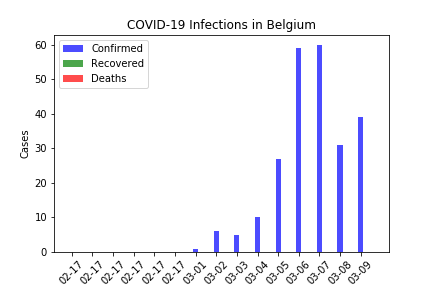
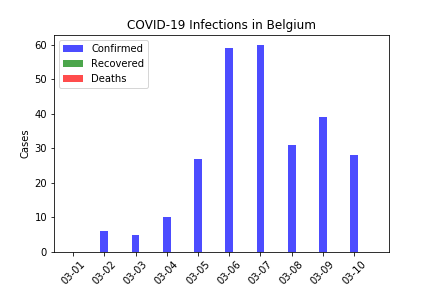
Update 2020-03-11 12:47:01

diff --git a/covid19.py b/covid19.py
@@ -12,11 +12,13 @@ import matplotlib.pyplot as plt
 import numpy as np
 from countryinfo import CountryInfo
 import os
+import re
 
 
 def make_graph(country, start_date, show_score = False):
     header = ['Province/State','Country/Region','Last Update','Confirmed','Deaths','Recovered','Latitude','Longitude']
-    countries_split_in_provinces =  ['US', 'China', 'Canada', 'Australia']
+    countries_split_in_provinces =  ['US', 'Mainland China', 'Canada', 'Australia']
+    provincies = ['Hubei','Guangdong','Henan','Zhejiang','Hunan','Anhui','Jiangxi','Shandong','Chongqing','Sichuan','Heilongjiang','Beijing','Shanghai','Hebei','Yunnan','Shaanxi','Fujian','Guangxi','Jiangsu','Guizhou','Hainan','California','New York','Washington','Indiana']
     raw_link = 'https://raw.githubusercontent.com/CSSEGISandData/COVID-19/master/csse_covid_19_data/csse_covid_19_daily_reports/{}.csv'
     end_date = date.today()
     delta = end_date - start_date
@@ -27,12 +29,13 @@ def make_graph(country, start_date, show_score = False):
         try:
             population = CountryInfo(country).population()
         except:
-            country_correction = {'US': 'United States'}
+            country_correction = {'US': 'United States','Mainland China':'China'}
             population = CountryInfo(country_correction[country]).population()
     
     for i in range(delta.days + 1):
         day = (start_date + timedelta(days=i)).strftime('%m-%d-%Y')
         r = requests.get(raw_link.format(day))
+        sub_data = list()
         
         if r.status_code == 404:
             break
@@ -42,27 +45,38 @@ def make_graph(country, start_date, show_score = False):
         
         rows = r.text.splitlines()
         for row in rows:
-            if country in row:
-                row_slice = row.split(',')
+            row_slice = row.split(',')
+            # Some country have a comma that creates troubble
+            if len(row_slice) == 7 or len(row_slice) == 9:
+                row_slice[0:2] = [''.join(row_slice[0:2])]
                 
-                # Some country have a comma that creates troubble
-                if len(row_slice) == 7 or len(row_slice) == 9:
-                    row_slice[0:2] = [''.join(row_slice[0:2])]
+            if country in provincies:
+                if re.match(country, row_slice[0]):
+                    sub_data = row_slice
+            else: # country not in provincies
+                if re.match(country, row_slice[1]):
+                    sub_data = row_slice
+                
+                    if country in countries_split_in_provinces:
+                        sub_total['posit'] += int(sub_data[3])
+                        sub_total['death'] += int(sub_data[4])
+                        sub_total['recov'] += int(sub_data[5])
 
-                if country in countries_split_in_provinces:
-                    sub_total['posit'] += int(row_slice[3])
-                    sub_total['death'] += int(row_slice[4])
-                    sub_total['recov'] += int(row_slice[5])
+        if len(sub_data) == 0:
+            continue
+        else:
+            sub_data[2] = day[:5]
 
-        if country in countries_split_in_provinces:
-            row_slice[3]= sub_total['posit']
-            row_slice[4]= sub_total['death']
-            row_slice[5]= sub_total['recov']
+            if country in countries_split_in_provinces:
+                sub_data[3] = sub_total['posit']
+                sub_data[4] = sub_total['death']
+                sub_data[5] = sub_total['recov']
         
-        try:
-            data.append(row_slice)
-        except:
-            pass
+       
+        data.append(sub_data)
+        
+    if len(data) == 1: # skip dataframe with only one entry
+        return
     
     df = pd.DataFrame(data, columns=header)
     df = df.drop(columns= ['Province/State','Country/Region','Latitude', 'Longitude'])
@@ -71,12 +85,10 @@ def make_graph(country, start_date, show_score = False):
     df['Confirmed'] = df['Confirmed'].astype('int')
     df['Recovered'] = df['Recovered'].astype('int')
     df['Deaths'] = df['Deaths'].astype('int')
+    df.at[0, 'Positives'] = df.at[0,'Confirmed'] - (df.at[0,'Recovered'] + df.at[0,'Deaths'])
     
+    begin_of_data = True
     for i in range(1, df.shape[0]):
-        if i == 1:
-            df.at[0, 'Positives'] = df.at[0,'Confirmed'] - (df.at[0,'Recovered'] + df.at[0,'Deaths'])
-            df.at[0, 'Last Update'] = df.at[0,'Last Update'][5:10]
-            
         # Today
         t_confirmed = df.at[i,'Confirmed']
         t_recovered = df.at[i,'Recovered']
@@ -85,19 +97,30 @@ def make_graph(country, start_date, show_score = False):
         df.at[i, 'Positives'] = t_positives
         
         # Yesterday
-        y_confirmed = df.at[i-1,'Confirmed']
-        y_recovered = df.at[i-1,'Recovered']
-        y_deaths = df.at[i-1,'Deaths']
+        try:
+            y_confirmed = df.at[i-1,'Confirmed']
+            y_recovered = df.at[i-1,'Recovered']
+            y_deaths = df.at[i-1,'Deaths']
+        except:
+            pass
         
         # Daily
         d_confirmed = t_confirmed - y_confirmed
-        df.at[i, 'D-Confirmed'] = d_confirmed
         d_recovered = t_recovered - y_recovered
-        df.at[i, 'D-Recovered'] = d_recovered
         d_deaths = t_deaths - y_deaths
-        df.at[i, 'D-Deaths'] = d_deaths
         
-        df.at[i, 'Last Update'] = df.at[i,'Last Update'][5:10]
+        if begin_of_data:
+            # delete row if nothing happened at the beginning of the data
+            if d_confirmed == 0 and d_recovered == 0 and d_deaths == 0:
+                if 0 in df.index:
+                    df = df.drop(0, axis=0)
+                df = df.drop(i, axis=0)
+            else:
+                begin_of_data = False
+        else:
+            df.at[i, 'D-Confirmed'] = d_confirmed
+            df.at[i, 'D-Recovered'] = d_recovered
+            df.at[i, 'D-Deaths'] = d_deaths
         
         if show_score:
             # Edits for the score calulation
@@ -105,6 +128,9 @@ def make_graph(country, start_date, show_score = False):
             if d_confirmed <= 0: d_confirmed = 0.1
             if d_deaths <= 0: d_deaths = 0.1
             df.at[i, 'Score'] = round((d_recovered/t_positives)/((d_confirmed/(population/10000)) * (d_deaths/t_positives)))    
+
+    if df.empty:
+        return
     
     df = df.fillna(0)
     df['Positives'] = df['Positives'].astype('int')
@@ -160,7 +186,7 @@ def main():
     start_date = date(2020, 2, 24)   # start date for the graphs
     
     # Asia
-    make_graph('China', start_date)
+    make_graph('Mainland China', start_date)
     make_graph('Hubei', start_date)
     make_graph('Zhejiang', start_date)
     make_graph('South Korea', start_date)
@@ -176,10 +202,11 @@ def main():
     make_graph('Hong Kong', start_date)
     make_graph('Iran', start_date)
     make_graph('Russia', start_date)
-
+    
     # Europe
     make_graph('Italy', start_date)
     make_graph('France', start_date)
+    make_graph('Spain', start_date)
     make_graph('Iceland', start_date)
     make_graph('Germany', start_date)
     make_graph('UK', start_date)
@@ -189,6 +216,7 @@ def main():
   
     # Americas
     make_graph('US', start_date)
+    make_graph('Washington', start_date)
     make_graph('Canada', start_date)
     make_graph('Argentina', start_date)
     make_graph('Cambodia', start_date)
@@ -202,8 +230,8 @@ def main():
 
     # Score
     make_graph('Italy', start_date, True)
-    make_graph('China', start_date, True)
-
+    make_graph('Mainland China', start_date, True)
+   
 if __name__ == "__main__":
     main()
     

diff --git a/auto_push.py b/auto_push.py
@@ -1,0 +1,41 @@
+# -*- coding: utf-8 -*-
+"""
+Spyder Editor
+
+Automatically update graph and make a pull request to the repository
+"""
+
+import covid19
+import os
+from datetime import datetime
+from git import Repo
+
+REPO_PATH = os.path.join(os.path.dirname(__file__))
+README_PATH = os.path.join(REPO_PATH, 'README.md')
+DATETIME = datetime.now().strftime('%Y-%m-%d %H:%M:%S')
+
+# Make the graph
+covid19.main()
+
+# Edit the README
+with open(README_PATH, mode = 'r+', encoding = 'utf-8') as file:
+    README_BACKUP = content = file.read()
+    file.seek(0)
+    file.write(content.replace('$date', DATETIME))
+    file.truncate()
+
+# GitPython
+try:
+    repo = Repo(REPO_PATH)
+    repo.git.add('--all')
+    repo.git.commit('-m', 'Update {}'.format(DATETIME))
+    origin = repo.remote(name='origin')
+    origin.push()
+except Exception as err:
+    print('Some error occured while pushing the code: {}'.format(err))
+finally:
+    print('GitPython successful')
+
+# Restore the README
+with open(README_PATH, mode = 'w', encoding = 'utf-8') as file:
+    file.write(README_BACKUP)

diff --git a/README.md b/README.md
@@ -6,10 +6,10 @@ If you wish to add a Country open an [Issue](https://github.com/aster94/COVID-19
 It is based on the database from the [Johns Hopkins University](https://github.com/CSSEGISandData/COVID-19).
 
 # Graph
-Updated at 2020-03-10 12:34:17.
+Updated at 2020-03-11 12:47:01.
 
 ## Asia
-![](/graph/China.png)
+![](/graph/Mainland%20China.png)
 
 ![](/graph/Hubei.png)
 
@@ -46,6 +46,8 @@ Updated at 2020-03-10 12:34:17.
 
 ![](/graph/France.png)
 
+![](/graph/Spain.png)
+
 ![](/graph/Iceland.png)
 
 ![](/graph/Germany.png)
@@ -60,6 +62,8 @@ Updated at 2020-03-10 12:34:17.
 
 ## Americas
 ![](/graph/US.png)
+
+![](/graph/Washington.png)
 
 ![](/graph/Canada.png)
 
@@ -78,7 +82,7 @@ Updated at 2020-03-10 12:34:17.
 # Score
 Also I made a *dirty* attempt to create a "score" to measure how well a country is responding to the COVID emergency (the highter the better):
 
-![](/graph/China_score.png)
+![](/graph/Mainland%20China_score.png)
 
 ![](/graph/Italy_score.png)
 
